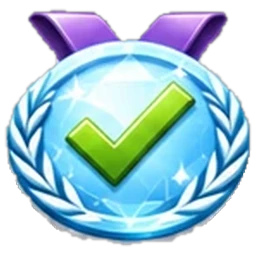
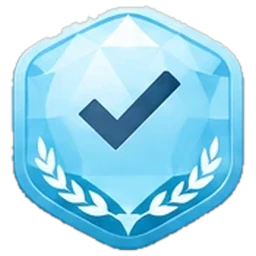
Medals: new hexagonal badge artwork; the cutting script handles sheets with tiers as rows

diff --git a/scripts/cut-medals.py b/scripts/cut-medals.py
@@ -1,25 +1,36 @@
-"""Cut the medal sheet (6 rows x 5 columns, painted checkerboard background) into transparent WebPs."""
+"""Cut a medal sheet into the app's 30 medal images (transparent WebP, 256x256).
+
+    python scripts/cut-medals.py <sheet> <out-dir> [--rows=tiers]
+
+The sheet is a grid on a plain light background (white, or a painted checkerboard).
+Default layout: 6 rows (tracks) x 5 columns (bronze, silver, gold, diamond, special).
+--rows=tiers: 5 rows (bronze, silver, gold, diamond, special) x 6 columns (tracks).
+Tracks, in order: learned, longterm, streak, goal, answers, tests.
+Special medals, in order: perfect-day, night-owl, early-bird, course-done, ace, polyglot.
+"""
 import sys
 from pathlib import Path
 
 import numpy as np
 from PIL import Image, ImageFilter
 
-sheet = Path(sys.argv[1])
-out = Path(sys.argv[2])
+args = [a for a in sys.argv[1:] if not a.startswith('--')]
+by_tier_rows = '--rows=tiers' in sys.argv
+sheet, out = Path(args[0]), Path(args[1])
 out.mkdir(parents=True, exist_ok=True)
+
+TRACKS = ['learned', 'longterm', 'streak', 'goal', 'answers', 'tests']
+TIERS = ['bronze', 'silver', 'gold', 'diamond']
+SPECIALS = ['perfect-day', 'night-owl', 'early-bird', 'course-done', 'ace', 'polyglot']
+n_rows, n_cols = (5, 6) if by_tier_rows else (6, 5)
 
 im = Image.open(sheet).convert('RGB')
 a = np.asarray(im).astype(np.int16)
 lo, hi = a.min(axis=2), a.max(axis=2)
-# Background candidates: light and colourless (the white / light-grey checker squares).
-# The soft grey drop shadow counts too: every medal has a dark outline, so the fill from outside
-# stops there and never reaches the medal's own light greys (silver).
-# The shadow is neutral grey, the silver medals' rims slightly blue – so darker greys only when colourless.
-# Only the checkerboard itself (light and colourless); the shadow below each disc is cut away by shape.
+# Background: light and colourless (white, light-grey checker squares, the faint drop shadow).
 cand = (lo > 200) & (hi - lo < 20)
 
-# Flood fill from the image border through candidate pixels (iterative dilation, 4-neighbours).
+# Flood fill from the border through background pixels (iterative dilation, 4-neighbours).
 bg = np.zeros_like(cand)
 bg[0, :], bg[-1, :], bg[:, 0], bg[:, -1] = cand[0, :], cand[-1, :], cand[:, 0], cand[:, -1]
 while True:
@@ -32,19 +43,16 @@ while True:
     if (grown == bg).all():
         break
     bg = grown
-
 fg = ~bg
 
+
 def runs(profile, min_gap):
-    """Ranges where the profile is non-zero, merging gaps shorter than min_gap."""
-    on = profile > 0
-    ranges, start, gap = [], None, 0
-    for i, v in enumerate(on):
+    """Index ranges where the profile is non-zero, merging gaps shorter than min_gap."""
+    ranges, start, gap, end = [], None, 0, 0
+    for i, v in enumerate(profile > 0):
         if v:
-            if start is None:
-                start = i
-            gap = 0
-            end = i
+            start = i if start is None else start
+            gap, end = 0, i
         elif start is not None:
             gap += 1
             if gap >= min_gap:
@@ -54,54 +62,47 @@ def runs(profile, min_gap):
         ranges.append((start, end))
     return ranges
 
-# Ignore stray specks when finding the grid.
-cols = runs((fg.sum(axis=0) > 3).astype(int), 15)
-# Rows sit close together (ribbons almost touch the medal above), so split at the emptiest line
-# between the first and last medal row, near each sixth of the content.
-prof = fg.sum(axis=1)
-filled = np.nonzero(prof > 3)[0]
-top, bottom = int(filled[0]), int(filled[-1])
-step = (bottom - top) / 6
-cuts = [top] + [int(top + step * k - 30 + np.argmin(prof[int(top + step * k - 30):int(top + step * k + 30)])) for k in range(1, 6)] + [bottom]
-rows = [(cuts[i], cuts[i + 1]) for i in range(6)]
-print('columns', len(cols), cols)
-print('rows', len(rows), rows)
-assert len(cols) == 5 and len(rows) == 6, 'unexpected grid'
 
-# Soft edges: blur the mask a little, but keep the inside fully opaque.
+def split(profile, count):
+    """`count` bands: by empty gaps when there are that many, else at the emptiest lines."""
+    found = runs((profile > 3).astype(int), 6)
+    if len(found) == count:
+        return found
+    filled = np.nonzero(profile > 3)[0]
+    top, bottom = int(filled[0]), int(filled[-1])
+    step = (bottom - top) / count
+    cuts = [top] + [int(top + step * k - 30 + np.argmin(profile[int(top + step * k - 30):int(top + step * k + 30)])) for k in range(1, count)] + [bottom]
+    return [(cuts[i], cuts[i + 1]) for i in range(count)]
+
+
+cols = split(fg.sum(axis=0), n_cols)
+rows = split(fg.sum(axis=1), n_rows)
+print('columns', cols)
+print('rows', rows)
+
 mask = Image.fromarray((fg * 255).astype(np.uint8)).filter(ImageFilter.MinFilter(3)).filter(ImageFilter.GaussianBlur(0.8))
 rgba = im.copy()
 rgba.putalpha(mask)
 
-tracks = ['learned', 'longterm', 'streak', 'goal', 'answers', 'tests']
-tiers = ['bronze', 'silver', 'gold', 'diamond']
-specials = ['perfect-day', 'night-owl', 'early-bird', 'course-done', 'ace', 'polyglot']
 size = 256
 for r, (y0, y1) in enumerate(rows):
     for c, (x0, x1) in enumerate(cols):
         cell = rgba.crop((x0, y0, x1 + 1, y1 + 1))
-        # Keep the medal itself: the tallest band of rows with content (drops slivers of neighbours).
+        # Keep the medal itself: the band of rows with the most content (drops slivers of neighbours).
         alpha = np.asarray(cell.getchannel('A')) > 8
-        band = max(runs(alpha.sum(axis=1), 1), key=lambda r: alpha[r[0]:r[1] + 1].sum())
+        band = max(runs(alpha.sum(axis=1), 1), key=lambda b: alpha[b[0]:b[1] + 1].sum())
         keep = np.zeros_like(alpha)
         keep[band[0]:band[1] + 1] = True
-        # The disc: its widest row gives the centre and radius. Below the centre keep only the circle,
-        # which drops the drop shadow under the medal; above it, the ribbon stays.
-        widths = (alpha & keep).sum(axis=1)
-        cy = int(np.argmax(widths))
-        xs = np.nonzero((alpha & keep)[cy])[0]
-        cx, rad = (xs[0] + xs[-1]) / 2, (xs[-1] - xs[0]) / 2
-        yy, xx = np.mgrid[0:alpha.shape[0], 0:alpha.shape[1]]
-        keep &= (yy <= cy) | ((xx - cx) ** 2 + (yy - cy) ** 2 <= (rad + 1.5) ** 2)
         cell.putalpha(Image.fromarray((np.asarray(cell.getchannel('A')) * keep).astype(np.uint8)))
-        box = cell.getchannel('A').point(lambda v: 255 if v > 8 else 0).getbbox()
-        cell = cell.crop(box)
-        # Centre on a square canvas, the medal filling it.
+        cell = cell.crop(cell.getchannel('A').point(lambda v: 255 if v > 8 else 0).getbbox())
         w, h = cell.size
         scale = (size - 8) / max(w, h)
         cell = cell.resize((round(w * scale), round(h * scale)), Image.LANCZOS)
         canvas = Image.new('RGBA', (size, size), (0, 0, 0, 0))
         canvas.paste(cell, ((size - cell.width) // 2, (size - cell.height) // 2), cell)
-        name = specials[r] if c == 4 else f'{tracks[r]}-{tiers[c]}'
+        if by_tier_rows:
+            name = SPECIALS[c] if r == 4 else f'{TRACKS[c]}-{TIERS[r]}'
+        else:
+            name = SPECIALS[r] if c == 4 else f'{TRACKS[r]}-{TIERS[c]}'
         canvas.save(out / f'{name}.webp', 'WEBP', quality=90, method=6)
 print('saved', len(list(out.glob('*.webp'))))
